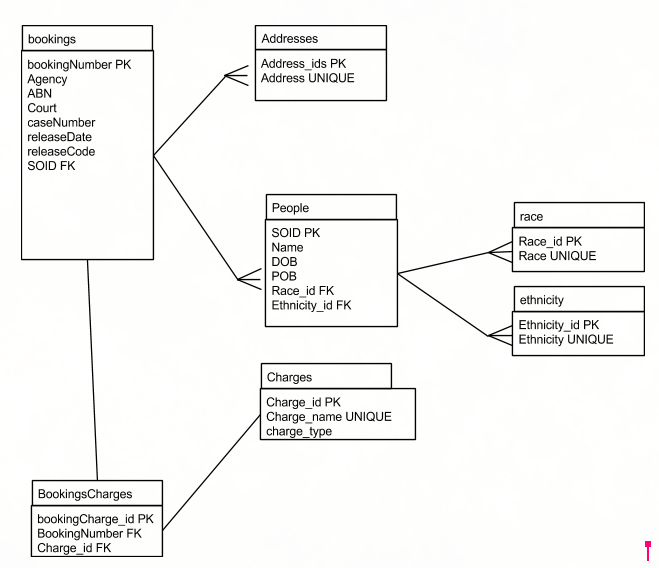
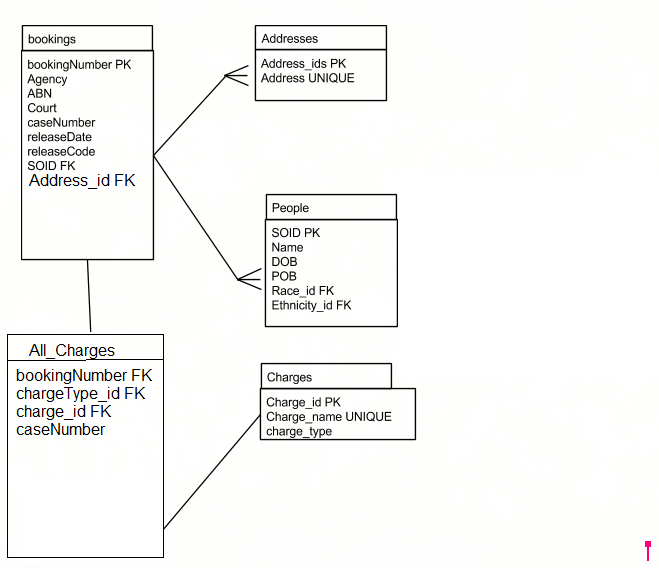
Adjusted ER diagram to represent new tables. Adjusted tables, annotated documentation along with new queries.

diff --git a/README.md b/README.md
@@ -5,82 +5,73 @@ Authors: Richard Decal and Joe Comer
 ## Normalize the jail database:
    1. ER diagram of important entities.
     
-    sqlite> .schema
-    CREATE TABLE booking_addl_charge(
-    "bookingNumber" TEXT,
-    "chargeType" TEXT,
-    "charge" TEXT,
-    "court" TEXT,
-    "caseNumber" TEXT
-    );
-    CREATE TABLE booking_charges(
-    bookingNumber TEXT,
-    charge TEXT
-    );
-    CREATE TABLE "bookingsA"(
-    bookingNumber TEXT,
-    name TEXT,
-    race TEXT,
-    sex TEXT,
-    DOB TEXT,
-    arrestDate TEXT,
-    bookingDate TEXT,
-    releaseDate TEXT,
-    releaseCode TEXT,
-    releaseRemarks TEXT
-    );
-    CREATE TABLE "bookingsB" ("name" TEXT,
-    "bookingNumber" TEXT,
-    "agency" TEXT,
-    "ABN" TEXT,
-    "race" TEXT,
-    "sex" TEXT,
-    "e" TEXT,
-    "DOB" TEXT,
-    "chargeType" TEXT,
-    "charge" TEXT,
-    "court" TEXT,
-    "caseNumber" TEXT,
-    "address" TEXT, city text,  "POB" TEXT,
-    "releaseDate" TEXT,
-    "releaseCode" TEXT,
-    "SOID" TEXT
-    );
-    CREATE TABLE homeless_addresses(
-    "address" TEXT,
-    "rank" TEXT,
-    "description" TEXT
-    );
-    CREATE TABLE homeless_charges(
-    "charge" TEXT,
-    "rank" TEXT
-    );
-    CREATE TABLE inmates(
-    SOID int PRIMARY KEY,
-    name text,
-    DOB text,
-    sex text,
-    race text,
-    e text);
-    CREATE TABLE variables(x);
-    CREATE INDEX booking_address on bookingsB (address);
-    CREATE INDEX booking_charge on bookingsB (charge);
-    CREATE INDEX booking_soid on bookingsB (bookingNumber,SOID);
-    CREATE INDEX bookingsA1_booking on "bookingsA" (bookingNumber);
-	
+    
 -------------------------------------------------------------	
-CREATE TABLE bookings(bookingNumber int PRIMARY KEY, Agency varchar, ABN int, Court varchar, releaseDate timestamp, releaseCode varchar,SOID int, foreign key(SOID) references people(SOID));
-CREATE TABLE charges(charge_id integer primary key autoincrement, charge_name varchar unique);
-CREATE TABLE Addresses(Address_id integer primary key autoincrement, address varchar unique);
-CREATE TABLE people(SOID int primary key, name varchar, DOB timestamp, POB varchar, Race char(1) check (Race in ("A","B","I","U","W","a","b","w")), e char(1) check (e in ("H","N","U","h","n","u")));
-CREATE TABLE BookingsCharges(bookingNumber int foriegn key references bo                                                                             okings(bookingNumber), chargeType varchar, charge_id foriegn key references char                                                                             ges(charge_id), primary key (bookingNumber,charge_id));
-insert into addresses values(address) select distinct address address from jailnew.bookingsB;
-insert into bookings select bookingNumber, Agency, ABN, Court, releaseDate, releaseCode, SOID from jailnew.bookingsB;
-insert into people (SOID, name, DOB, POB, Race, e) select * from (select SOID, name, DOB, POB, race, e from jailnew.bookingsB group by SOID);
-insert into BookingsCharges(bookingNumber, chargeType, charge_id) select bookingNumber, chargeType, charge_id from (select a.bookingNumber, a.chargeType, b.charge_id from jailnew.booking_addl_charge a left join charges b on a.charge = b.charge_name);
-insert into BookingsCharges(bookingNumber, chargeType, charge_id) select bookingNumber, chargeType, charge_id from (select a.bookingNumber, a.chargeType, b.charge_id from jailnew.bookingsB a left join charges b on a.charge = b.charge_name);
 
-	
+###The table bookings contains all the the attributes uniquely determined by the bookingNumber.
+=>CREATE TABLE bookings(bookingNumber int PRIMARY KEY, Agency varchar, ABN int, Court varchar, releaseDate timestamp, releaseCode varchar,SOID int, FOREIGN KEY (SOID) REFERENCES people(SOID));
+
+###A table for the names of all charges with a serial PK to avoid repetition in other tables.
+=>CREATE TABLE charges(charge_id INTEGER PRIMARY KEY AUTOINCREMENT, charge_name VARCHAR UNIQUE);
+
+###Ditto for addresses.
+=>CREATE TABLE Addresses(Address_id INTEGER PRIMARY KEY AUTOINCREMENT, address VARCHAR UNIQUE);
+
+
+###Ditto for ChargeType.
+=>CREATE TABLE ChargeType(chargeType_id INTEGER PRIMARY KEY AUTOINCREMENT, chargeType VARCHAR UNIQUE);
+
+
+
+###SOID uniquely identifies a person, which determines race, DOB, and all the other attributes in this table.
+=>CREATE TABLE people(SOID INTEGER PRIMARY KEY, name VARCHAR, DOB TIMESTAMP, POB VARCHAR, Race CHAR(1) CHECK (Race IN ("A","B","I","U","W","a","b","w")), e CHAR(1) CHECK (e IN ("H","N","U","h","n","u")));
+
+###Now begin inserting data, being sure to select DISTINCT when necessary to not throw constraint violations.
+=>INSERT INTO addresses (address) SELECT DISTINCT address address FROM jailnew.bookingsB;
+
+
+=>INSERT INTO bookings SELECT bookingNumber, Agency, ABN, Court, releaseDate, releaseCode, SOID FROM jailnew.bookingsB;
+
+
+=>INSERT INTO people (SOID, name, DOB, POB, Race, e) SELECT * FROM (select SOID, name, DOB, POB, race, e from jailnew.bookingsB group by SOID);
+
+
+=>INSERT INTO ChargeType(chargeType) SELECT DISTINCT chargeType chargeType FROM jailnew.booking_addl_charge;
+
+###This command makes sure we didn't miss any chargetypes that might have appeared in booking_addl_charges.
+=>INSERT INTO ChargeType(chargeType) SELECT DISTINCT chargeType chargeType FROM jailnew.bookingsB WHERE jailnew.bookingsB.chargeType NOT IN (select chargeType from ChargeType);
+
+
+=>INSERT INTO charges (charge_name) SELECT DISTINCT charge charge_name FROM (SELECT DISTINCT charge FROM jailnew.booking_addl_charge);
+
+
+=> CREATE TABLE Courts(court_id INTEGER PRIMARY KEY AUTOINCREMENT, Court VARCHAR UNIQUE);
+
+
+=>INSERT INTO Courts (Court) SELECT DISTINCT court court FROM jailnew.bookingsB;
+
+###There are entire repeated rows in booking_addl_charges. bookingNumber, caseNumber--everything. I took this to mean that one person was being tried for multiple counts of the same crime in the same case on the same booking. I created a unique index for each count of each crime.
+=>CREATE TABLE all_counts(bookingNumber INTEGER, chargeType_id INTEGER, charge_id INTEGER, caseNumber VARCHAR, FOREIGN KEY (bookingNumber) REFERENCES bookings(bookingNumber), FOREIGN KEY (charge_id) REFERENCES charges(charge_id), FOREIGN KEY (chargeType_id) REFERENCES ChargeType(chargeType_id));
+
+###Now I make a temporary table to consolidate some attributes that appear in separate tables in order to avoid multiple joins in one query. This temp table was too big for ROM though, so I made it a not-temparary table, and then drop it when I'm done with it.
+=>CREATE TABLE all_charges_extra(bookingNumber INTEGER, chargeType VARCHAR, chargeType_id INTEGER, charge VARCHAR, charge_id INTEGER, caseNumber VARCHAR);
+
+
+###Now we grab all the data we can in one query and insert it into all_counts. I unioned bookingsB and booking_addl_charges to grab all counts at once. But I need separate queries to efficiently grab the charge_id without doing a possibly hazardous triple join.
+=>INSERT INTO all_counts (bookingNumber, charge_id, caseNumber) SELECT b.bookingNumber bookingNumber, c.charge_id charge_id, b.caseNumber caseNumber FROM all_charges_extra b LEFT JOIN charges c ON b.charge = c.charge_name;
+
+
+###Last missing column from the all_counts table is the charge_id. 
+=>INSERT INTO all_counts(charge_id) SELECT c.charge_id charge_id FROM all_charges_extra a LEFT JOIN charges c ON a.charge=c.charge_name;
+
+
+
+
+
+
+
+
+
 
    2. New db jail_norm_ComerDecal.db (readable by Noah + Dr Gillman), and create the tables for a jail db in 3rd normal form. Use all appropriate integrity constraints.
    3. Populate the new db
